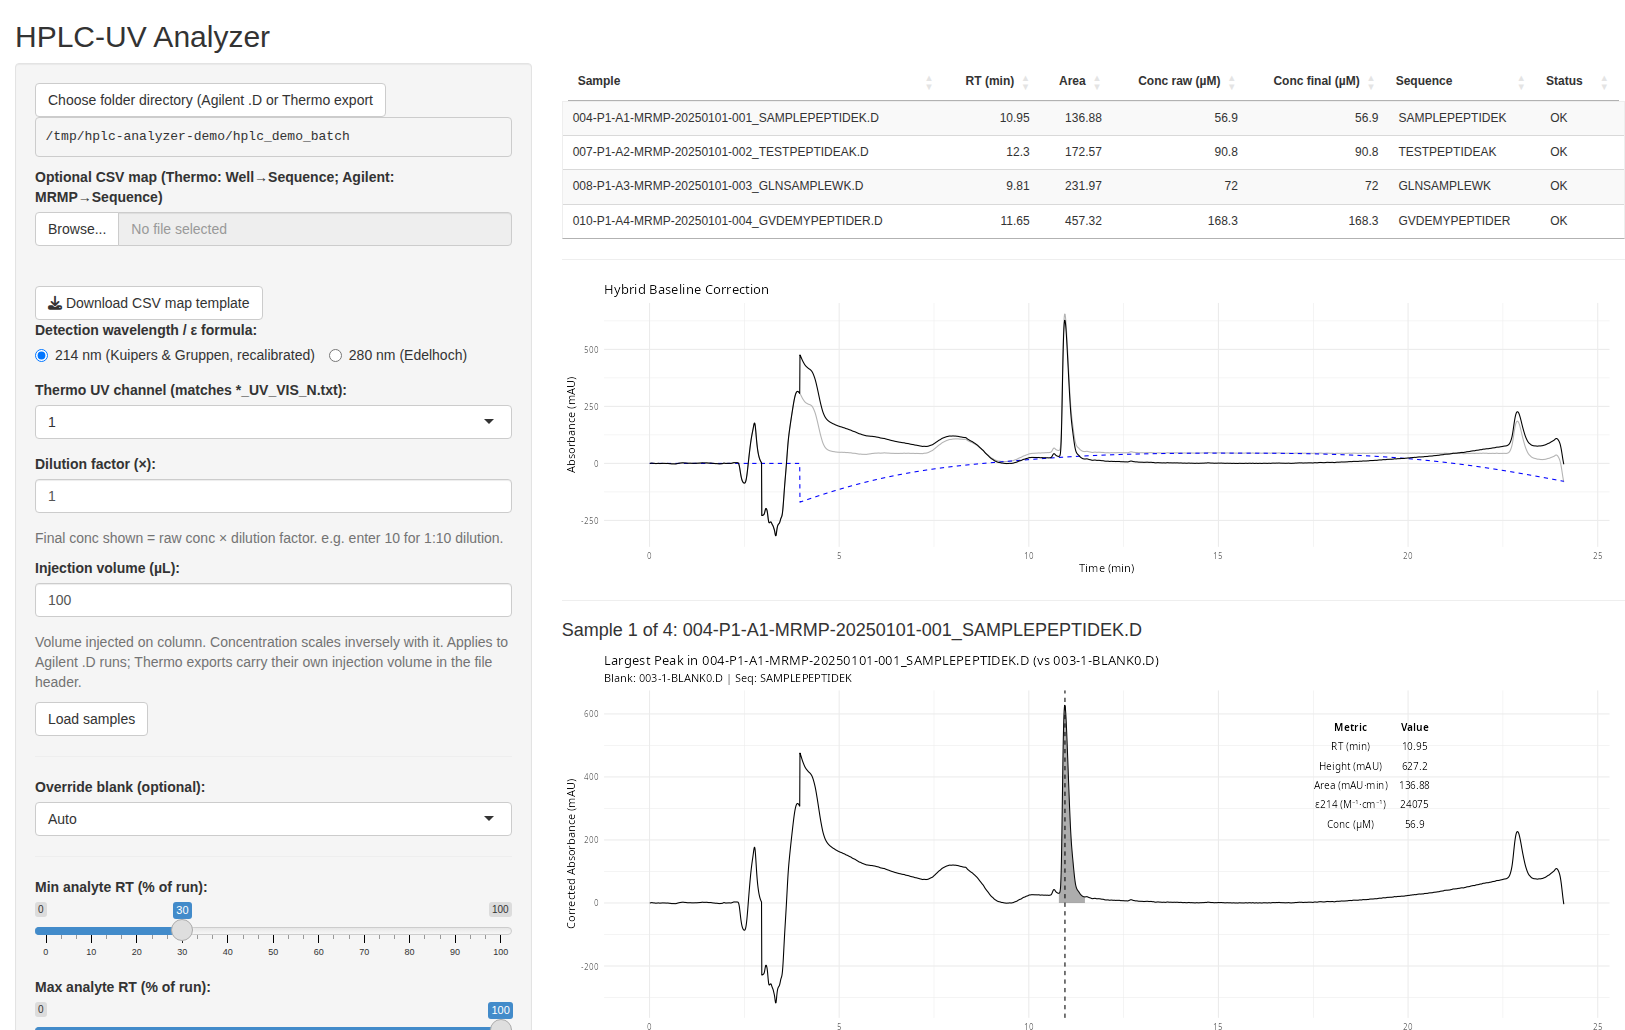
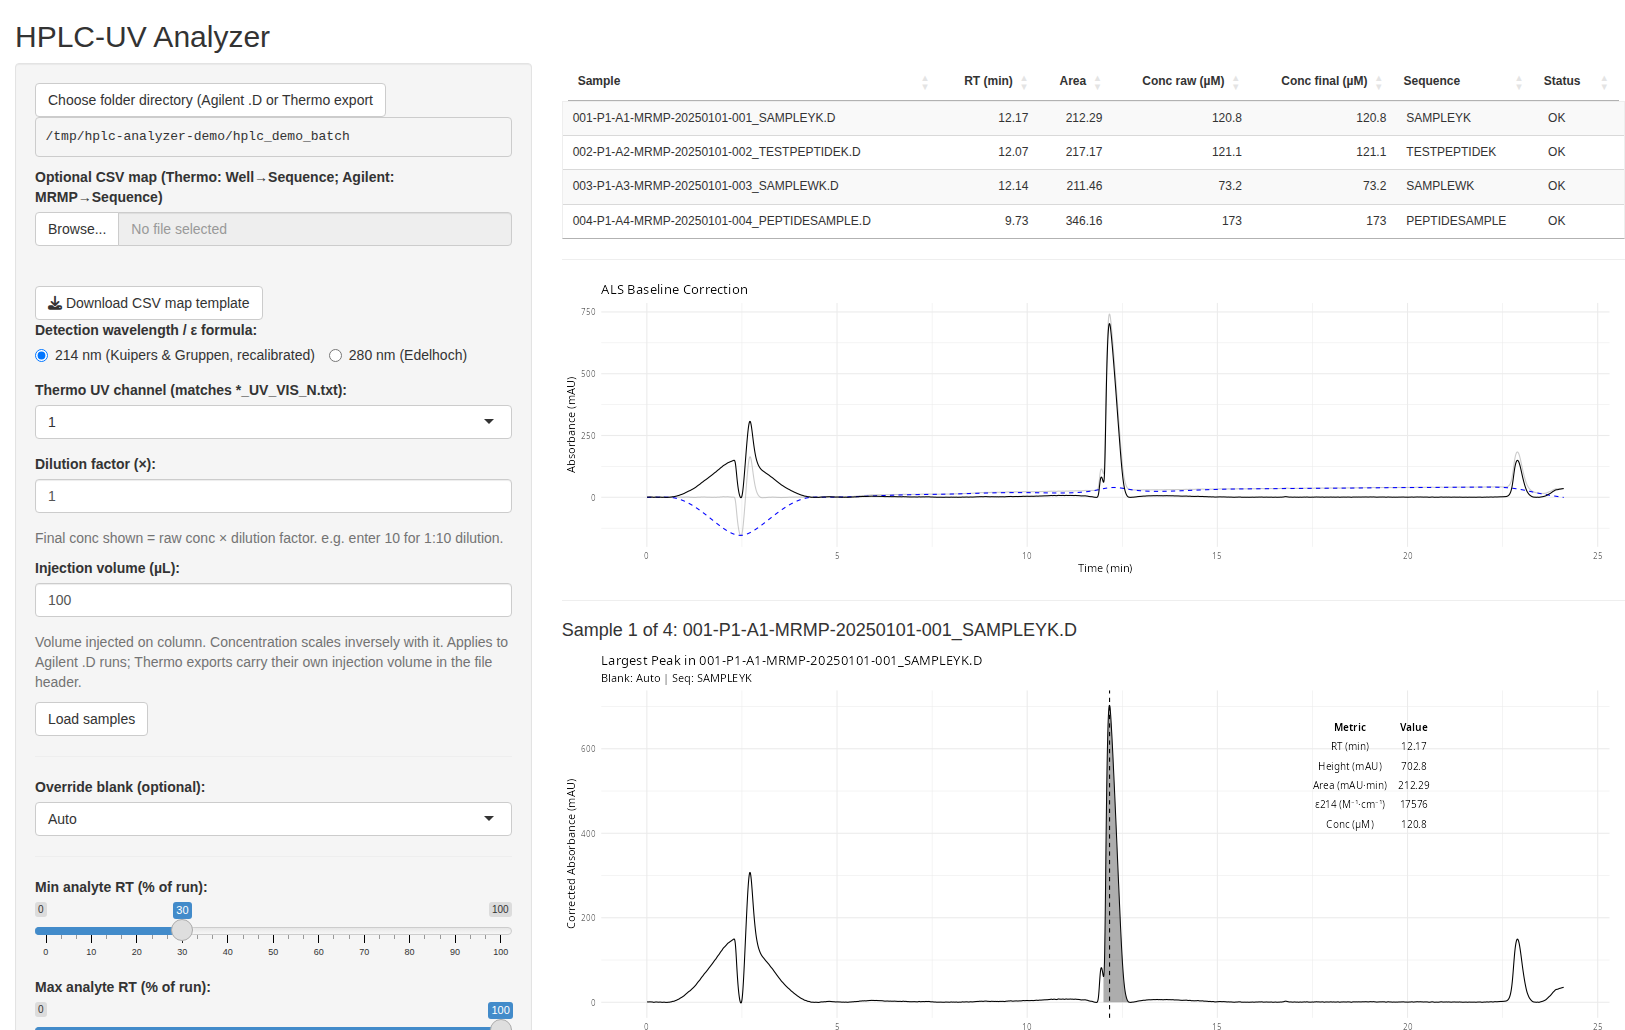
Reshoot the screenshots on clean runs, and document why the old ones looked wrong
The walkthrough screenshots showed a chromatogram opening with a deep negative dip. That was
not a bad run: at 214 nm with a blank present, the blank-subtracting hybrid path over-subtracts
the blank's own injector peak and leaves -317 mAU at 3.28 min in every run, varying by less
than 2 mAU across a batch. The guard ramp in align_subtract_then_hybrid() does not reach it.
The plain ALS path leaves -1.6 mAU in the same place.

So the screenshots are redone on four runs picked for baseline quality and purity, 84 to 93
percent main peak area, with no blank in the folder, and the captions say which path is shown.
The synthetic sequences are chosen so that two carry a 280 nm chromophore and two do not,
which keeps the 280 nm screenshot showing both outcomes.

The artefact itself is now documented rather than photographed: a new section under Behaviour
that will surprise you, with the measured numbers and the concentration difference it causes
(92.9, 44.8 and 91.5 uM on the hybrid path against 88.6, 39.0 and 79.5 on ALS for the same
three runs), plus an entry under Known limitations. It does not corrupt a reported
concentration, because it sits before the analyte window, but the two paths do not agree and
the hybrid one is the one biased high against hand integration.

Claude-Session: https://claude.ai/code/session_0156K7zCU9m841yuwatEAM5z

diff --git a/README.md b/README.md
@@ -214,9 +214,11 @@ run_hplc_app()
 The app opens in your browser. Nothing leaves your machine: there is no upload, no account and
 no network call anywhere in the package.
 
-The run shown below is a real Agilent batch of four peptide injections and one blank. The
-peptide names are synthetic, so the numbers belong to the sequences on screen rather than to
-anyone's samples.
+The run shown below is a real Agilent batch of four peptide injections. The peptide names are
+synthetic, so the numbers belong to the sequences on screen rather than to anyone's samples.
+There is no blank in this folder, so the screenshots show the plain ALS baseline path; see
+[the blank-subtracting path leaves an injector artefact](#the-blank-subtracting-path-leaves-an-injector-artefact)
+for what changes when a blank is present.
 
 **Step 1. Point it at a folder.** Click **Choose folder directory** and pick the folder that
 holds your `.D` folders, or your `*_UV_VIS_N.txt` exports. Pick the folder itself, not one of
@@ -232,8 +234,8 @@ is not 100 microlitres, because concentration scales inversely with it. Then cli
 ![The batch loaded at 214 nm](man/figures/app-02-batch-214nm.png)
 
 Each row carries the retention time and area of the main peak, the concentration before and
-after the dilution factor, the sequence that was resolved, and a status. The blank is detected
-and used, not listed as a sample.
+after the dilution factor, the sequence that was resolved, and a status. A blank, if one is
+present in the folder, is detected and used rather than listed as a sample.
 
 **Step 3. Inspect one run.** Click a row, or use **Previous** and **Next**. The upper plot
 shows the raw trace, the fitted baseline and the corrected trace, so you can see what the
@@ -250,10 +252,10 @@ and say so in plain words rather than reporting a number that would be meaningle
 
 ![The same batch at 280 nm](man/figures/app-04-batch-280nm.png)
 
-In this batch, `GLNSAMPLEWK` and `GVDEMYPEPTIDER` quantify at both wavelengths;
-`SAMPLEPEPTIDEK` and `TESTPEPTIDEAK` have no 280 nm chromophore at all. That split is not a
-failure, it is the reason 214 nm is the default: only about a third of tryptic peptides carry
-Trp or Tyr.
+In this batch, `SAMPLEYK` and `SAMPLEWK` quantify at both wavelengths; `TESTPEPTIDEK` and
+`PEPTIDESAMPLE` have no 280 nm chromophore at all. That split is not a failure, it is the
+reason 214 nm is the default: only about a third of tryptic peptides carry Trp or Tyr. Note how
+much smaller the 280 nm signal is, 38.8 mAU against 702.8 at 214 nm on the same injection.
 
 **Step 5. Download the results.** **Download Results CSV** writes one row per run; the columns
 are listed under [Results CSV columns](#results-csv-columns).
@@ -532,6 +534,25 @@ in case 1 stayed invisible until 2026.
 
 ## Behaviour that will surprise you
 
+### The blank-subtracting path leaves an injector artefact
+
+At 214 nm, when a blank is present in the folder, the app takes the blank-subtracting hybrid
+path. That path leaves a **negative excursion of about -317 mAU at 3.28 minutes**, and it is
+the same size and at the same time in every run: measured across a production batch it varies
+by less than 2 mAU. It is the blank's own injector peak, over-subtracted, and the one minute
+guard ramp in `align_subtract_then_hybrid()` does not reach it. Without a blank, the plain ALS
+path leaves **-1.6 mAU** in the same place.
+
+It does not corrupt the reported concentration, because it sits well before the analyte window
+that `min_rt_frac` opens at 30 percent of the run, and no peak is picked there. But the two
+paths do not agree: on three runs the hybrid path returned 92.9, 44.8 and 91.5 uM where ALS
+returned 88.6, 39.0 and 79.5, so a difference of 5 to 15 percent, and it is the hybrid number
+that is biased high against hand integration (see the 280 nm entry below).
+
+If a chromatogram in your batch opens with a deep dip just after the injector, that is this,
+not your sample. Removing the blank from the folder, or calling
+`run_hplc_analysis_agilent(..., use_hybrid = FALSE)`, avoids it.
+
 **At 280 nm the blank is never subtracted, even if you ask for it.**
 `run_hplc_analysis_agilent()` computes `use_hybrid && signal_wavelength != 280`, so an explicit
 `use_hybrid = TRUE` is overridden at 280 nm. The reason is that there is nothing there to
@@ -679,6 +700,10 @@ that has already been reported. Set it yourself.
 - **The hybrid baseline path can fail on individual runs.** One of 58 runs in the batch tested
   errors inside `baseline_hybrid_sm()` with `invalid 'times' argument`. The app catches it, and
   the row carries the error text rather than a number.
+- **The hybrid baseline path over-subtracts the injector peak**, leaving a constant -317 mAU
+  artefact at 3.28 min that the guard ramp does not cover, and returns concentrations 5 to 15
+  percent different from the ALS path on the same runs. See
+  [the blank-subtracting path leaves an injector artefact](#the-blank-subtracting-path-leaves-an-injector-artefact).
 - **The noise estimate is the standard deviation of the first 50 points** of the trace. A run
   whose first 50 points are not baseline will have its detection threshold set wrongly.
 - **Test coverage is narrow.** `tests/testthat/` covers the extinction coefficient models and
